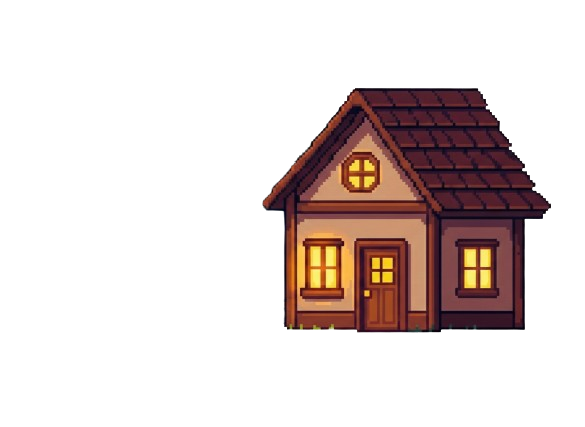
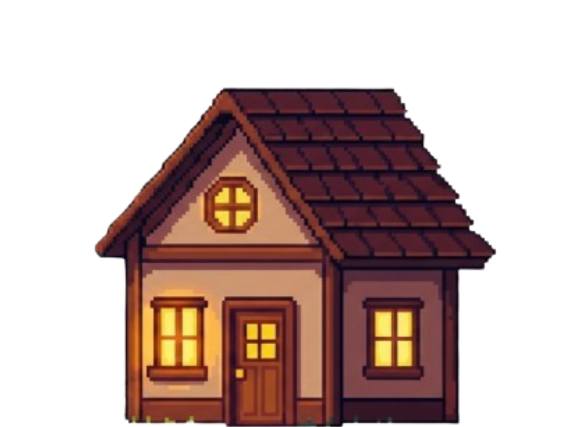
새 집 이미지 적용 및 위치 조정

diff --git a/src/App.jsx b/src/App.jsx
@@ -3310,7 +3310,7 @@ const LogosGame = () => {
       const goalWidth = goalHeight * aspectRatio;
       // 바닥에 붙도록 위치 조정 (전체가 보이게 왼쪽으로)
       const drawX = canvas.width - goalWidth - 20;
-      const drawY = floorY - goalHeight + 60;
+      const drawY = floorY - goalHeight + 35;
       ctx.drawImage(
         img,
         drawX, drawY,
